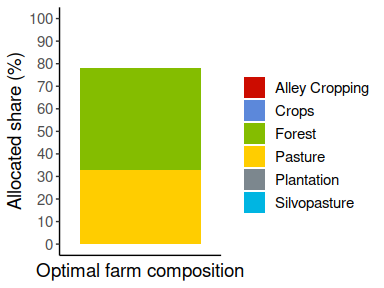
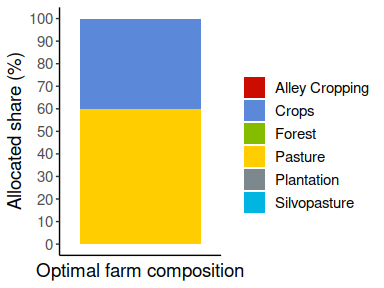
Revision 1

Changed region(s): [[0.1875, 0.0625, 0.5312, 0.5938]]

diff --git a/README.md b/README.md
@@ -202,8 +202,8 @@ smallholder farmers’ perceptions and values of agroforestry systems.
 They identified 10 relevant indicators for a predefined set of land use
 alternatives, which represent the farmers’ goals. A subsequent survey of
 farmers provided the empirical basis in the form of indicators’
-expectations (arithmetic mean) and uncertainties (standard deviation)
-for each land-cover alternative. Descriptions of the land-cover
+expectations (arithmetic mean) and uncertainties (standard error of the
+mean) for each land-cover alternative. Descriptions of the land-cover
 alternatives and indicators can be found in tables 1 and 2 in Gosling et
 al. (2020).
 
@@ -435,13 +435,14 @@ levels (uValue, respectively
 ![f_u](https://latex.codecogs.com/png.image?%5Cdpi%7B110%7D&space;%5Cbg_white&space;f_u "f_u")
 in equation 4 (Husmann et al, n.d.) gives sensitivity of the land-cover
 compositions towards increasing aversity of risk of the farmer. The
-higher the uncertainty level, the higher the deviation of the indicator
-consequences on the land-cover options. Here, the composition of
-land.use alternatives is quite stable. Only the small proportion of
-crops (ca 10 %) is interchanged with small proportions of pasture and
-plantation. Forest and Silvopasture are practically not affected by the
-uncertainty level. The plot corresponds to figure 3 in Gosling et
-al. (2020).
+higher the uncertainty level, the higher the standard error of the mean
+(Gosling et al- use the s.e.m.; any other uncertainty measure will also
+be possible) of the indicator consequences on the land-cover options.
+Here, the composition of land.use alternatives is quite stable. Only the
+small proportion of crops (ca 10 %) is interchanged with small
+proportions of pasture and plantation. Forest and Silvopasture are
+practically not affected by the uncertainty level. The plot corresponds
+to figure 3 in Gosling et al. (2020).
 
 ### Leave-Indicators-Out-Analysis to Investigate the Indicators’ Sensitivity
 
@@ -463,7 +464,7 @@ init_socioeconomic <- initScenario(dat_socioeconomic,
 result_socioeconomic <- solveScenario(x = init_socioeconomic)
 
 result_socioeconomic$landUse %>% gather(key = landUseOption, value = landUseShare, 1 : 6) %>% 
-  mutate(uValue = "3",
+  mutate(uValue = "2",
          landUseShare = landUseShare * 100) %>% 
   ggplot(aes(y = landUseShare, x = uValue, fill = landUseOption)) + 
   geom_bar(position = "stack", stat = "identity") + 
@@ -554,7 +555,7 @@ init_ecologic <- initScenario(dat_ecologic,
 result_ecologic <- solveScenario(x = init_ecologic)
 
 result_ecologic$landUse %>% gather(key = landUseOption, value = landUseShare, 1 : 6) %>% 
-  mutate(uValue = "3",
+  mutate(uValue = "2",
          landUseShare = landUseShare * 100) %>% 
   ggplot(aes(y = landUseShare, x = uValue, fill = landUseOption)) + 
   geom_bar(position = "stack", stat = "identity") + 
@@ -573,19 +574,19 @@ result_ecologic$landUse %>% gather(key = landUseOption, value = landUseShare, 1 
 
 The ecological indicator group, as the second example for
 leave-indicators-out analysis, leads to a portfolio covering forests
-only (see also figure 5 of Gosling et al. (2020)). It can be followed
-that all contributions of all other land-cover alternatives in all
-scenarios (even the optimistic outcomes) to ecological indicators are
-lower then the contribution of forest. This portfolio differs even more
-from the actually observed portfolio. Also the ecological indicators are
+only (corresponds to figure 5 of Gosling et al. (2020)). It can be
+followed that all contributions of all other land-cover alternatives in
+all scenarios (even the optimistic outcomes) to the ecological
+indicators are lower then the contribution of forest. This portfolio
+differs even more from the actually observed portfolio then the above
+shown multi-objective portfolio. Also the ecological indicators are
 apparently not sufficient to approximate the farmers’ actual inceptions.
 
-### Short Term Economic Success
+### Immediate Economic Success
 
 ``` r
-dat_short <- dat[dat$indicator %in% c("Labour demand" , "Meeting household needs",
-                                      "Liquidity", "Investment costs",
-                                      "Management complexity"),]
+dat_short <- dat[dat$indicator %in% c("Meeting household needs",
+                                      "Liquidity"),]
 
 init_short<- initScenario(dat_short,
                      uValue = 2,
@@ -595,7 +596,7 @@ init_short<- initScenario(dat_short,
 result_short <- solveScenario(x = init_short)
 
 result_short$landUse %>% gather(key = landUseOption, value = landUseShare, 1 : 6) %>% 
-  mutate(uValue = "3",
+  mutate(uValue = "2",
          landUseShare = landUseShare * 100) %>% 
   ggplot(aes(y = landUseShare, x = uValue, fill = landUseOption)) + 
   geom_bar(position = "stack", stat = "identity") + 
@@ -613,25 +614,20 @@ result_short$landUse %>% gather(key = landUseOption, value = landUseShare, 1 : 6
 ![](README_files/figure-gfm/unnamed-chunk-11-1.png)<!-- -->
 
 The third example considers the prospective relevant indicators of the
-farmers. It corresponds also to figure 5 of Gosling et al. (2020). And
-indeed this portfolio best reflects the oberved portfolio. It can be
-followed that these indicators best reflect the farmers’ goals. The
-difference between this portfolio and the societally desired
-multi-objective portfolio
-
-“From a policy perspective, results highlight key requirements that
-agroforestry must fulfil to be more attractive to farmers in the study
-area. We contend that silvopasture (as defined in our study) may not
-align with these key requirements. If farmers prioritise liquidity and
-meeting household needs over long-term profit and economic stability,
-then pasture (with scattered trees) and not silvopasture (with 200 trees
-per hectare) would be the rational land-use choice for a risk-averse de
-cision-maker. This demonstrates the need to select and promote agro
-forestry systems that provide early and frequent income flows, as well
-as ongoing opportunities to harvest food crops.” … umformulieren und
-kürzen.
-
-TBD: Abb passt nicht! Da muss ein Fehler sein!
+farmers only. Corresponding to figure 5 of Gosling et al. (2020), this
+scenario only consists of indicators that approximate the immediate
+economic success. And indeed this portfolio best reflects the portfolio
+observed in Eastern Panama. Followingly, these indicators best reflect
+the farmers’ goals and perceptions in this area. The difference between
+this portfolio and the societally desired multi-objective portfolio
+highlight the requirements a land-cover alternative must fulfill to meet
+the farmers needs and goals. The silvopasture as defined in Gosling et
+al. (2020) may not serve the requirements of the farmers sufficiently.
+Since farmers rate liquidity and meeting household needs higher then
+long-term profit and economic stability, pasture outperforms
+silvopasture in the realistic scenario. Policies or development plans
+may consider these indicators as key elements when promoting a landscape
+development towards multi-functional landscapes.
 
 ### The use of fixDistance
 
@@ -751,7 +747,7 @@ init_u3 <- initScenario(dat,
 result_u3 <- solveScenario(x = init_u3)
 
 result_u3$landUse %>% gather(key = landUseOption, value = landUseShare, 1:6) %>% 
-  mutate(uValue = "3",
+  mutate(uValue = "2",
          landUseShare = landUseShare * 100) %>% 
   ggplot(aes(y = landUseShare, x = uValue, fill = landUseOption)) + 
   geom_bar(position = "stack", stat = "identity") + 
